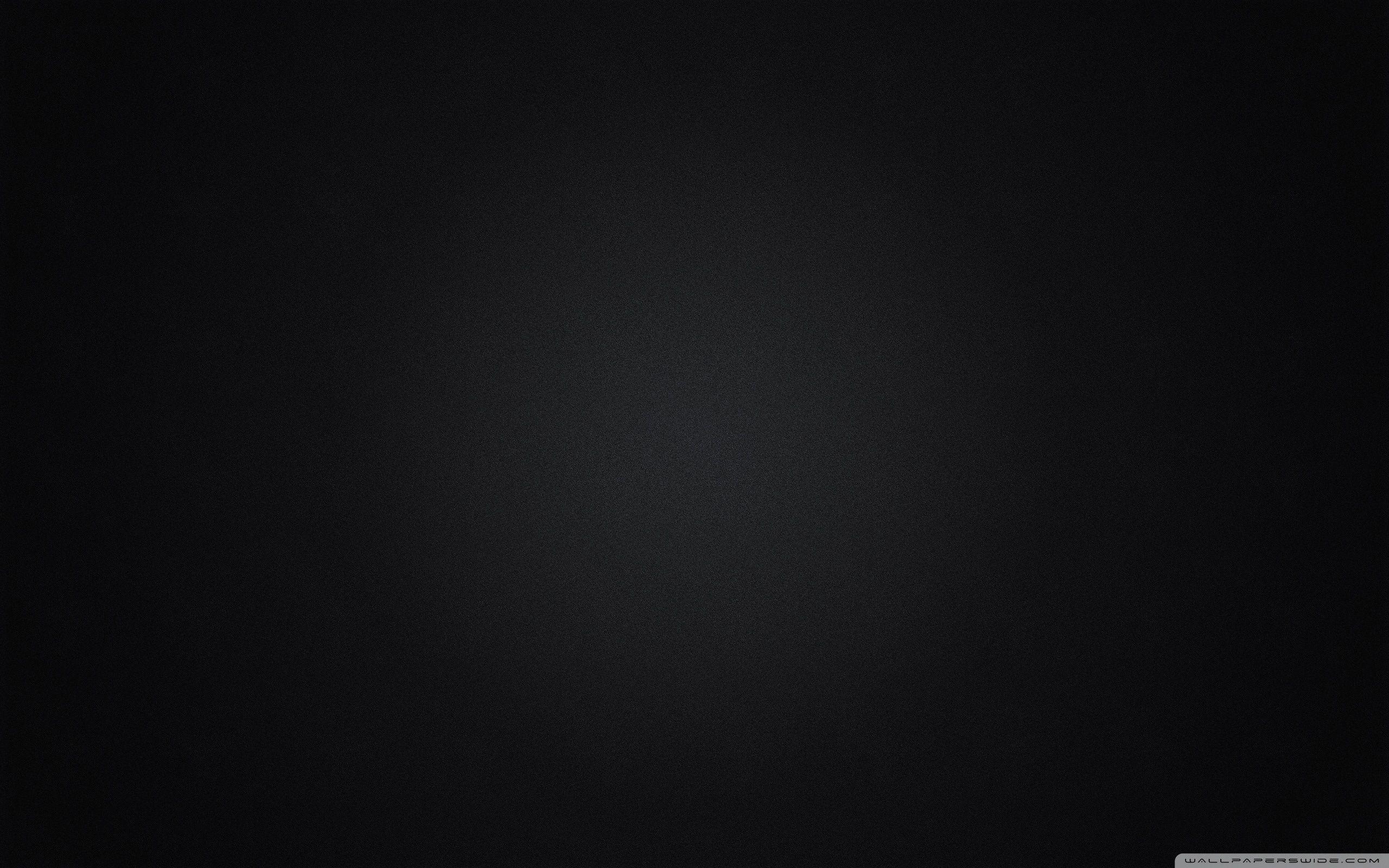
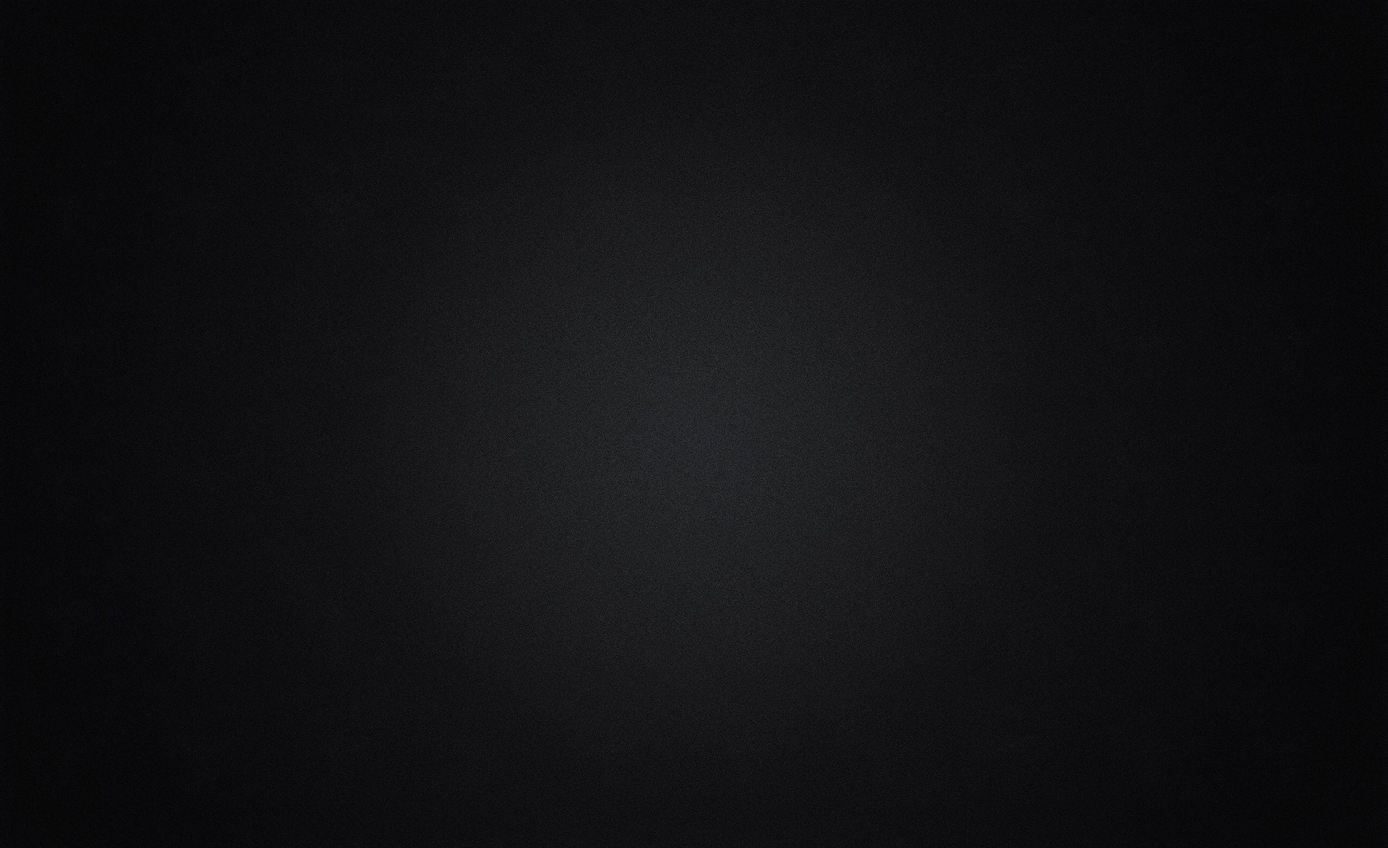
fix bg image for mobile and desktop

diff --git a/Style/style.scss b/Style/style.scss
@@ -36,7 +36,10 @@ body {
 body {
   line-height: 1.5;
   -webkit-font-smoothing: antialiased;
-  // background-image: url(../Assets/Images/realblack.jpg);
+  background-image: url(../Assets/Images/realblack-mobile.jpg);
+  background-position: center;
+  // background-repeat: no-repeat;
+  background-size: cover;
 }
 
 /*
@@ -611,7 +614,6 @@ backdrop-filter: blur(6.9px);
       margin-right: auto;
       padding: 24px;
       align-items: center;
-      background-image: url(../Assets/Images/illustration-contact-form.svg);
       background-repeat: no-repeat;
       background-size: auto;
       background-position: right bottom;
@@ -724,8 +726,12 @@ backdrop-filter: blur(6.9px);
 
 @include medium {
   //homepage
-  .homepage-container {
+  body{
+
     background-image: url(../Assets/Images/realblack.jpg);
+
+  }
+  .homepage-container {
     background-size: cover;
     background-repeat: no-repeat;
     background-position: 50% 50%;

diff --git a/Style/style.css b/Style/style.css
@@ -33,6 +33,9 @@ body {
 body {
   line-height: 1.5;
   -webkit-font-smoothing: antialiased;
+  background-image: url(../Assets/Images/realblack-mobile.jpg);
+  background-position: center;
+  background-size: cover;
 }
 
 /*
@@ -642,7 +645,6 @@ h6 {
   margin-right: auto;
   padding: 24px;
   align-items: center;
-  background-image: url(../Assets/Images/illustration-contact-form.svg);
   background-repeat: no-repeat;
   background-size: auto;
   background-position: right bottom;
@@ -755,8 +757,10 @@ h6 {
 }
 
 @media (min-width: 768px) {
-  .homepage-container {
+  body {
     background-image: url(../Assets/Images/realblack.jpg);
+  }
+  .homepage-container {
     background-size: cover;
     background-repeat: no-repeat;
     background-position: 50% 50%;
